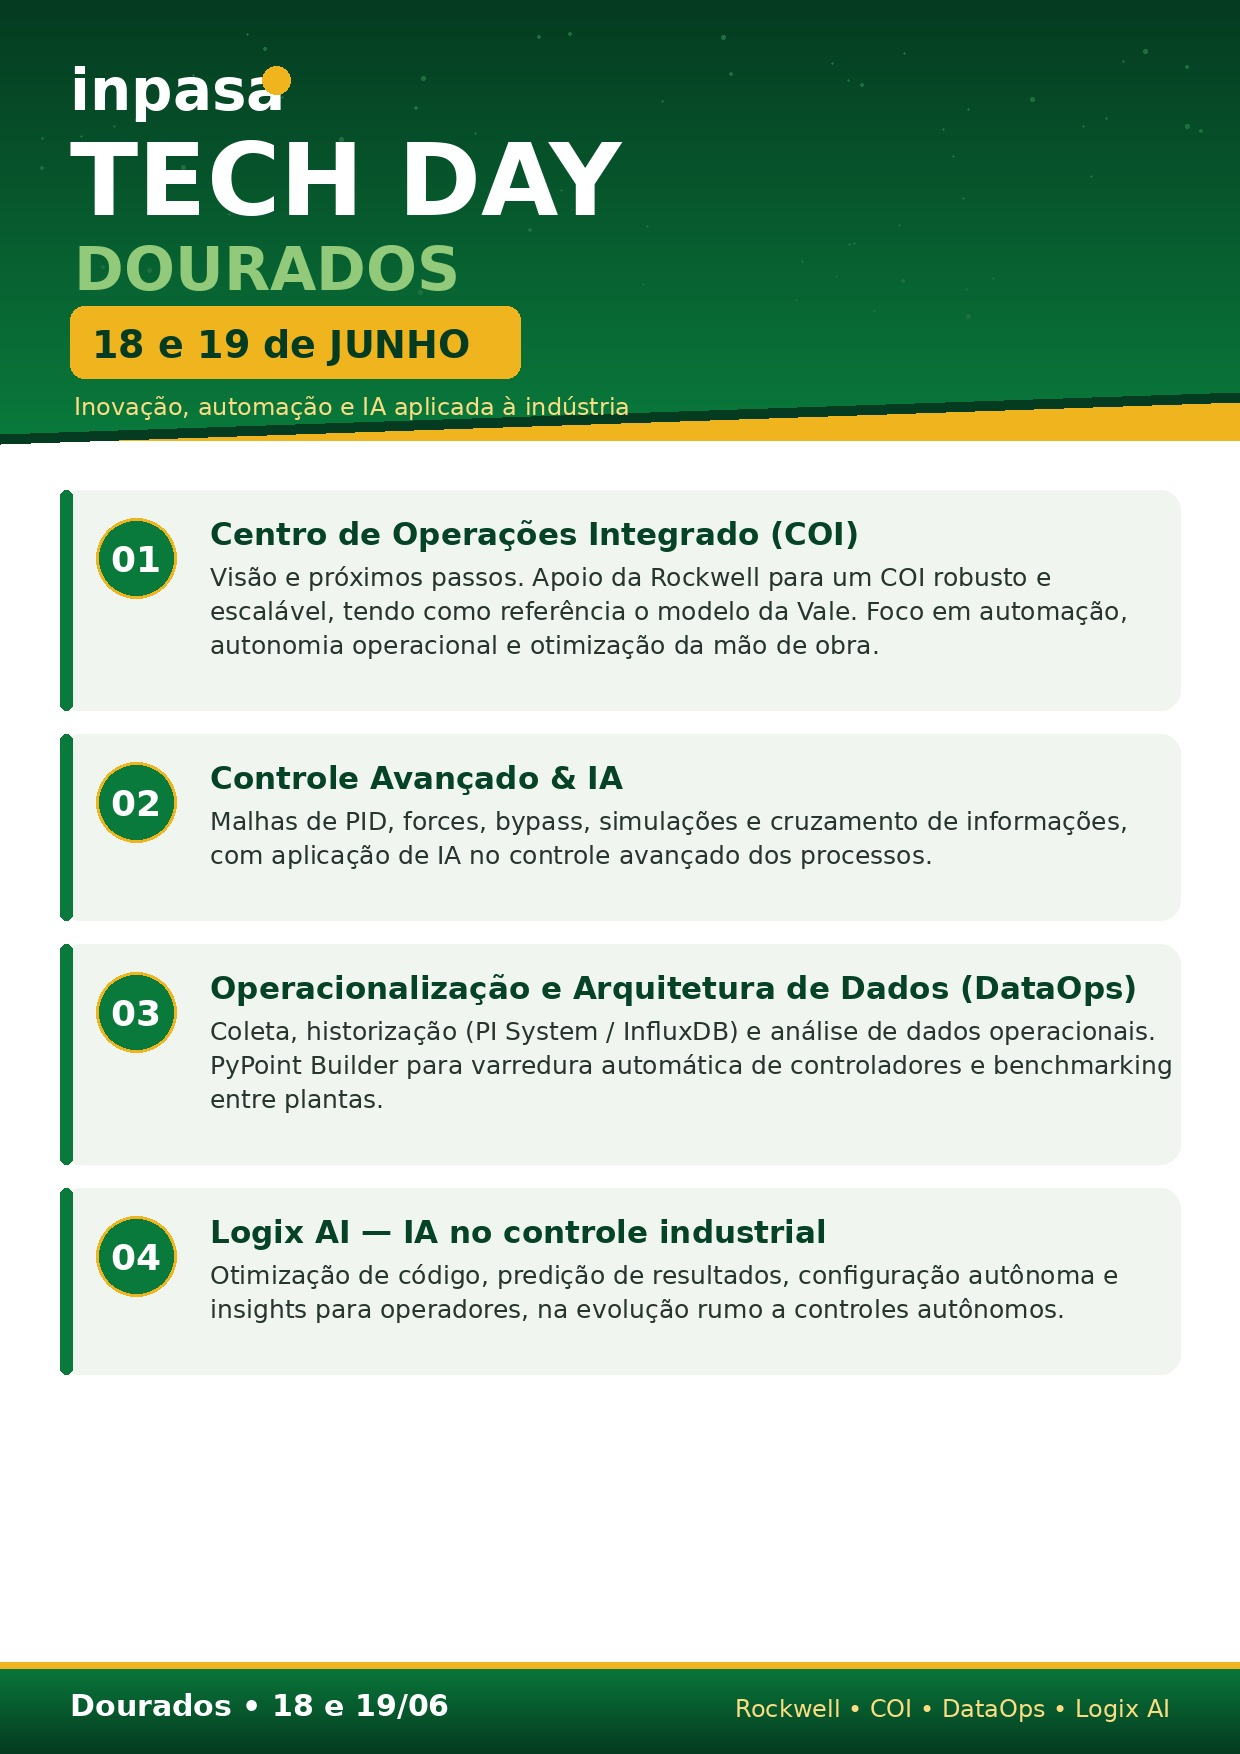
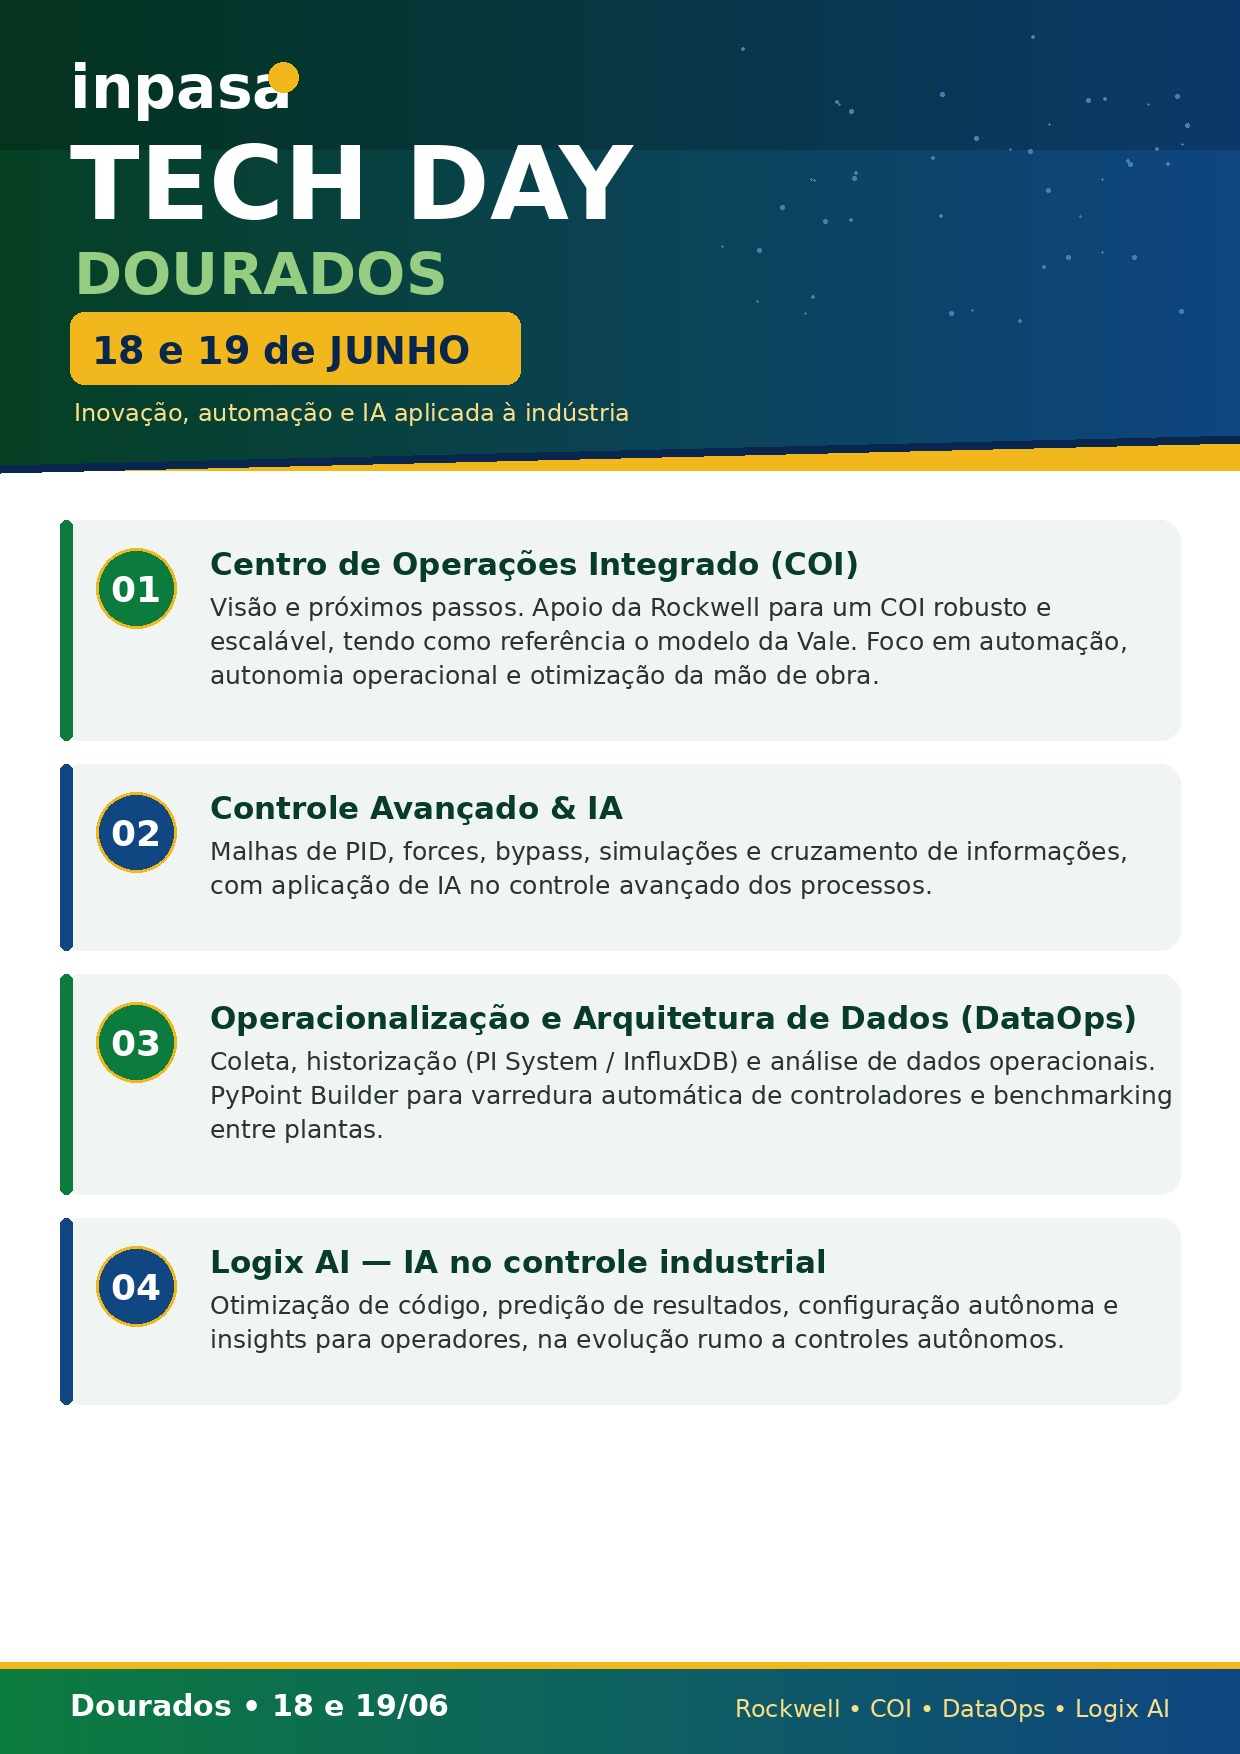
Folder TechDay: paleta verde+azul Inpasa, corrige tagline sobre a faixa e ajusta marca
Claude-Session: https://claude.ai/code/session_01TDi4hhGdTeZrmqp4EyXZWh

diff --git a/make_folder.py b/make_folder.py
@@ -1,7 +1,7 @@
 # -*- coding: utf-8 -*-
 """Gera o folder (folheto promocional) do TechDay Dourados em JPEG.
 
-Padrão visual Inpasa: verde (agro/etanol de milho) + acento dourado,
+Padrão visual Inpasa: verde + azul (cores da marca), acento dourado,
 tipografia limpa sobre fundo branco.
 """
 from PIL import Image, ImageDraw, ImageFont
@@ -9,16 +9,19 @@ import random
 
 W, H = 1240, 1754  # A4 a ~150 dpi (retrato)
 
-# ---- Paleta Inpasa ----
-VERDE_ESC = (5, 59, 33)      # verde profundo
-VERDE = (10, 122, 60)        # verde Inpasa
-VERDE_CLARO = (146, 201, 122)
-DOURADO = (240, 180, 30)     # milho / etanol
-DOURADO_CLR = (252, 220, 130)
+# ---- Paleta Inpasa (verde + azul) ----
+VERDE_ESC = (5, 64, 36)
+VERDE = (12, 124, 62)
+AZUL = (16, 70, 130)
+AZUL_ESC = (9, 38, 78)
+VERDE_CLARO = (150, 205, 130)
+AZUL_CLARO = (130, 190, 235)
+DOURADO = (242, 183, 28)
+DOURADO_CLR = (252, 222, 135)
 BRANCO = (255, 255, 255)
-CINZA_CLARO = (240, 245, 240)
-TEXTO = (40, 52, 46)
-TITULO = (6, 66, 38)
+CINZA_CLARO = (240, 245, 244)
+TEXTO = (40, 52, 50)
+TITULO = (8, 60, 40)
 
 F = "/usr/share/fonts/truetype/dejavu/DejaVuSans.ttf"
 FB = "/usr/share/fonts/truetype/dejavu/DejaVuSans-Bold.ttf"
@@ -32,13 +35,16 @@ img = Image.new("RGB", (W, H), BRANCO)
 d = ImageDraw.Draw(img)
 
 
-def vgrad(box, c1, c2):
+def grad(box, c1, c2, horizontal=False):
     x0, y0, x1, y1 = box
-    h = y1 - y0
-    for i in range(h):
-        t = i / max(h - 1, 1)
+    n = (x1 - x0) if horizontal else (y1 - y0)
+    for i in range(n):
+        t = i / max(n - 1, 1)
         c = tuple(int(c1[k] + (c2[k] - c1[k]) * t) for k in range(3))
-        d.line([(x0, y0 + i), (x1, y0 + i)], fill=c)
+        if horizontal:
+            d.line([(x0 + i, y0), (x0 + i, y1)], fill=c)
+        else:
+            d.line([(x0, y0 + i), (x1, y0 + i)], fill=c)
 
 
 def wrap(text, fnt, max_w):
@@ -56,63 +62,68 @@ def wrap(text, fnt, max_w):
     return lines
 
 
-# ---------- Cabeçalho ----------
-HEAD = 440
-vgrad((0, 0, W, HEAD), VERDE_ESC, VERDE)
+# ---------- Cabeçalho (degradê verde -> azul) ----------
+HEAD = 470
+grad((0, 0, W, HEAD), VERDE_ESC, AZUL, horizontal=True)
+# leve escurecimento no topo para contraste do texto
+ov = Image.new("RGB", (W, 150), (0, 0, 0))
+img.paste(Image.blend(img.crop((0, 0, W, 150)), ov, 0.18), (0, 0))
 
-# folhas/grãos decorativos
-random.seed(11)
-for _ in range(60):
-    x = random.randint(40, W - 40)
-    y = random.randint(28, HEAD - 120)
-    r = random.choice([2, 2, 3, 4])
-    d.ellipse((x, y, x + r, y + r), fill=(30, 110, 64))
+# grãos/pontos decorativos discretos no lado azul
+random.seed(13)
+for _ in range(45):
+    x = random.randint(720, W - 30)
+    y = random.randint(28, HEAD - 150)
+    r = random.choice([2, 3, 4])
+    d.ellipse((x, y, x + r, y + r), fill=(60, 130, 180))
 
-# faixa diagonal dourada na base do cabeçalho
-d.polygon([(0, HEAD), (W, HEAD - 42), (W, HEAD), (0, HEAD)], fill=DOURADO)
-d.polygon([(0, HEAD - 6), (W, HEAD - 48), (W, HEAD - 38), (0, HEAD + 4)], fill=VERDE_ESC)
+# faixa diagonal dourada fina na base do cabeçalho
+d.polygon([(0, HEAD), (W, HEAD - 30), (W, HEAD), (0, HEAD)], fill=DOURADO)
+d.polygon([(0, HEAD - 5), (W, HEAD - 35), (W, HEAD - 27), (0, HEAD + 3)], fill=AZUL_ESC)
 
-# marca "inpasa" (wordmark substituto)
-d.text((70, 56), "inpasa", font=font(True, 58), fill=BRANCO)
-d.ellipse((262, 66, 290, 94), fill=DOURADO)  # ponto/grão sobre a marca
-d.text((70, 122), "TECH DAY", font=font(True, 100), fill=BRANCO)
-d.text((74, 234), "DOURADOS", font=font(True, 60), fill=VERDE_CLARO)
+# marca "inpasa" (wordmark recriado)
+d.text((70, 52), "inpasa", font=font(True, 60), fill=BRANCO)
+d.ellipse((268, 62, 298, 92), fill=DOURADO)  # grão sobre a marca
+
+d.text((70, 124), "TECH DAY", font=font(True, 102), fill=BRANCO)
+d.text((74, 240), "DOURADOS", font=font(True, 58), fill=VERDE_CLARO)
 
 # faixa de data
-d.rounded_rectangle((70, 306, 520, 378), radius=14, fill=DOURADO)
-d.text((92, 322), "18 e 19 de JUNHO", font=font(True, 38), fill=VERDE_ESC)
+d.rounded_rectangle((70, 312, 520, 384), radius=14, fill=DOURADO)
+d.text((92, 328), "18 e 19 de JUNHO", font=font(True, 38), fill=AZUL_ESC)
 
-d.text((74, 392), "Inovação, automação e IA aplicada à indústria",
+# tagline com respiro acima da faixa dourada
+d.text((74, 398), "Inovação, automação e IA aplicada à indústria",
        font=font(False, 24), fill=DOURADO_CLR)
 
-# ---------- Cartões de conteúdo (textos revisados) ----------
+# ---------- Cartões (acento alternando verde/azul) ----------
 cards = [
-    ("01", "Centro de Operações Integrado (COI)",
+    ("01", VERDE, "Centro de Operações Integrado (COI)",
      "Visão e próximos passos. Apoio da Rockwell para um COI robusto e "
      "escalável, tendo como referência o modelo da Vale. Foco em automação, "
      "autonomia operacional e otimização da mão de obra."),
-    ("02", "Controle Avançado & IA",
+    ("02", AZUL, "Controle Avançado & IA",
      "Malhas de PID, forces, bypass, simulações e cruzamento de informações, "
      "com aplicação de IA no controle avançado dos processos."),
-    ("03", "Operacionalização e Arquitetura de Dados (DataOps)",
+    ("03", VERDE, "Operacionalização e Arquitetura de Dados (DataOps)",
      "Coleta, historização (PI System / InfluxDB) e análise de dados "
      "operacionais. PyPoint Builder para varredura automática de "
      "controladores e benchmarking entre plantas."),
-    ("04", "Logix AI — IA no controle industrial",
+    ("04", AZUL, "Logix AI — IA no controle industrial",
      "Otimização de código, predição de resultados, configuração autônoma e "
      "insights para operadores, na evolução rumo a controles autônomos."),
 ]
 
 x0, x1 = 60, W - 60
 y = HEAD + 50
-for num, titulo, corpo in cards:
+for num, cor, titulo, corpo in cards:
     tlines = wrap(titulo, font(True, 31), x1 - x0 - 150)
     blines = wrap(corpo, font(False, 25), x1 - x0 - 150)
     ch = 40 + len(tlines) * 38 + len(blines) * 34 + 40
     d.rounded_rectangle((x0, y, x1, y + ch), radius=20, fill=CINZA_CLARO)
-    d.rounded_rectangle((x0, y, x0 + 12, y + ch), radius=6, fill=VERDE)
+    d.rounded_rectangle((x0, y, x0 + 12, y + ch), radius=6, fill=cor)
     # número
-    d.ellipse((x0 + 36, y + 28, x0 + 116, y + 108), fill=VERDE)
+    d.ellipse((x0 + 36, y + 28, x0 + 116, y + 108), fill=cor)
     d.ellipse((x0 + 36, y + 28, x0 + 116, y + 108), outline=DOURADO, width=3)
     nb = font(True, 36)
     nw = d.textlength(num, font=nb)
@@ -128,9 +139,9 @@ for num, titulo, corpo in cards:
         ty += 34
     y += ch + 24
 
-# ---------- Rodapé ----------
+# ---------- Rodapé (degradê verde -> azul) ----------
 FY = H - 92
-vgrad((0, FY, W, H), VERDE, VERDE_ESC)
+grad((0, FY, W, H), VERDE, AZUL, horizontal=True)
 d.rectangle((0, FY, W, FY + 6), fill=DOURADO)
 d.text((70, FY + 26), "Dourados • 18 e 19/06", font=font(True, 30), fill=BRANCO)
 rt = "Rockwell • COI • DataOps • Logix AI"
